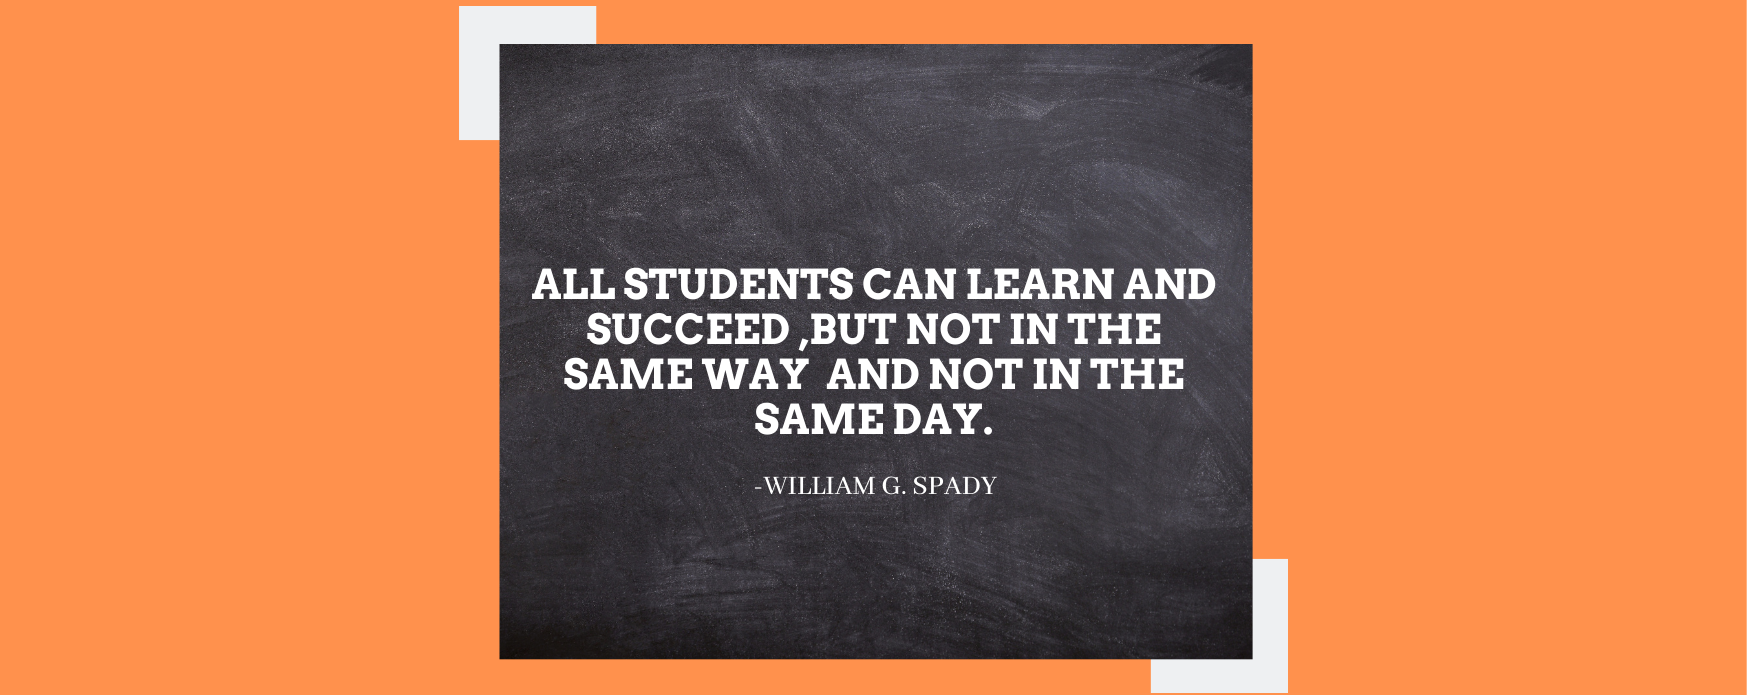
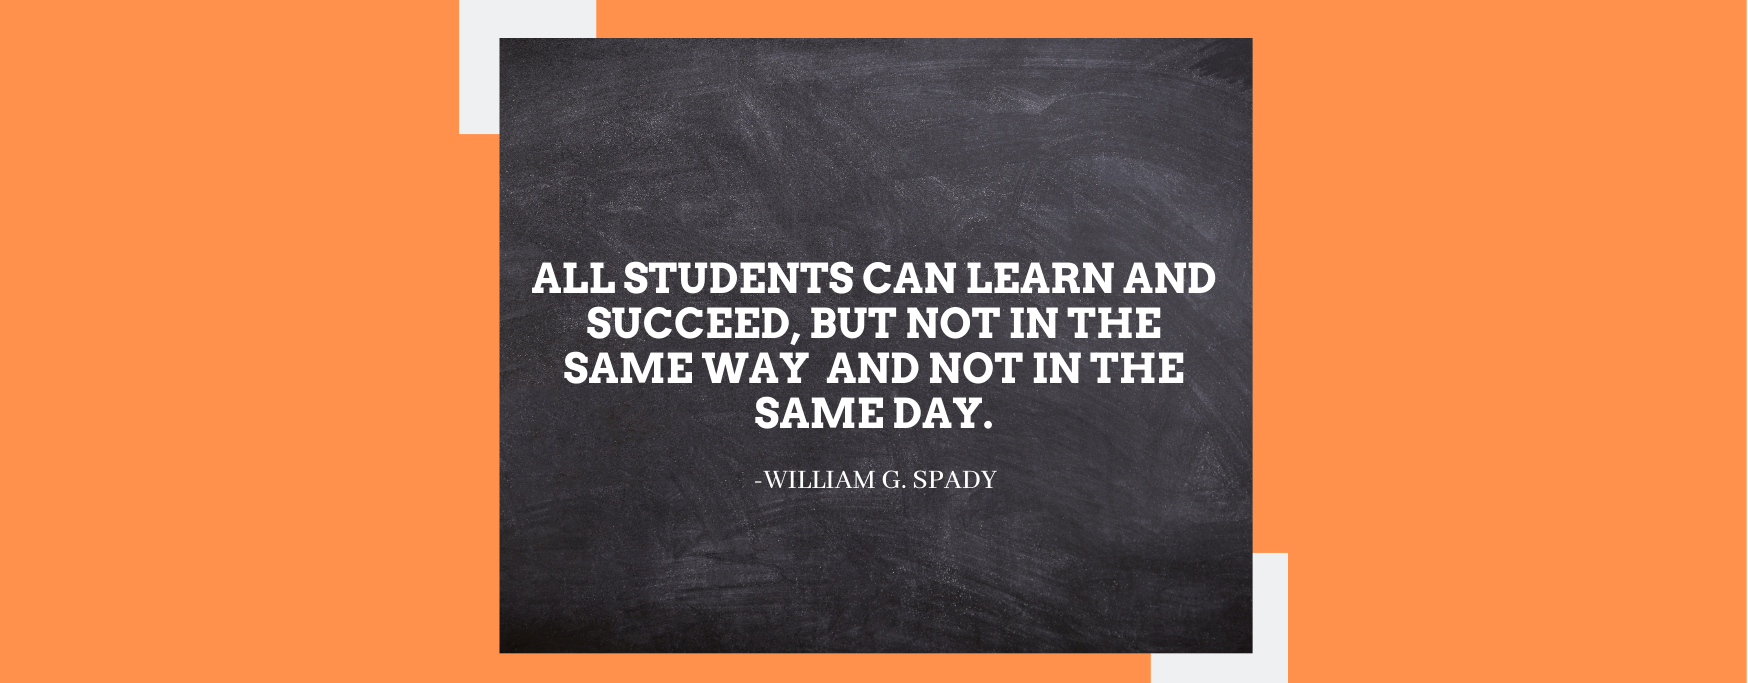
changed

diff --git a/index.html b/index.html
@@ -64,18 +64,9 @@
     <video width="100%" autoplay muted loop>
         <source src="resources/video1.mp4" type="video/mp4">
     </video>
-    <!-- <div class="container-fluid" style="background-color: white; padding-left: 0%;">
-        <div style="display: flex; flex-wrap: wrap; ">
-            <img src="resources/kid1.jpg" style="border-top-right-radius: 50% ;border-bottom-right-radius: 50% ; position:relative; width: 45%; height: 50%; margin: 2%; box-shadow: 20px 5px 20px rgba(243, 177, 91, 0.486);">
-            <div style="height: 100%; width: 50%; margin-top: 10%; display:flex; flex-wrap: wrap;">
-                <h1 style="text-align: center;">About Us</h1>
-                <h4 style="text-align: left;">pioneer classes provide a personal tutor in both online and offline mode. So you can learn and endrose the learning experience the way you want. pioneer classes not only provide subject knowledge but also you learn and enroll in some curriclar
-                    activities also.
-                </h4>
-            </div>
-        </div>
-    </div> -->
-    <img src=" resources/quote!.png " width="100% ">
+
+    </div>
+    <img src=" resources/quote!.png " width="100% " style="margin-top: -10px ;">
 
     <div class="container " title="pioneer classes ">
         <h1 style="color: rgb(255, 123, 0); text-align: center; ">WHY US?</h1>
